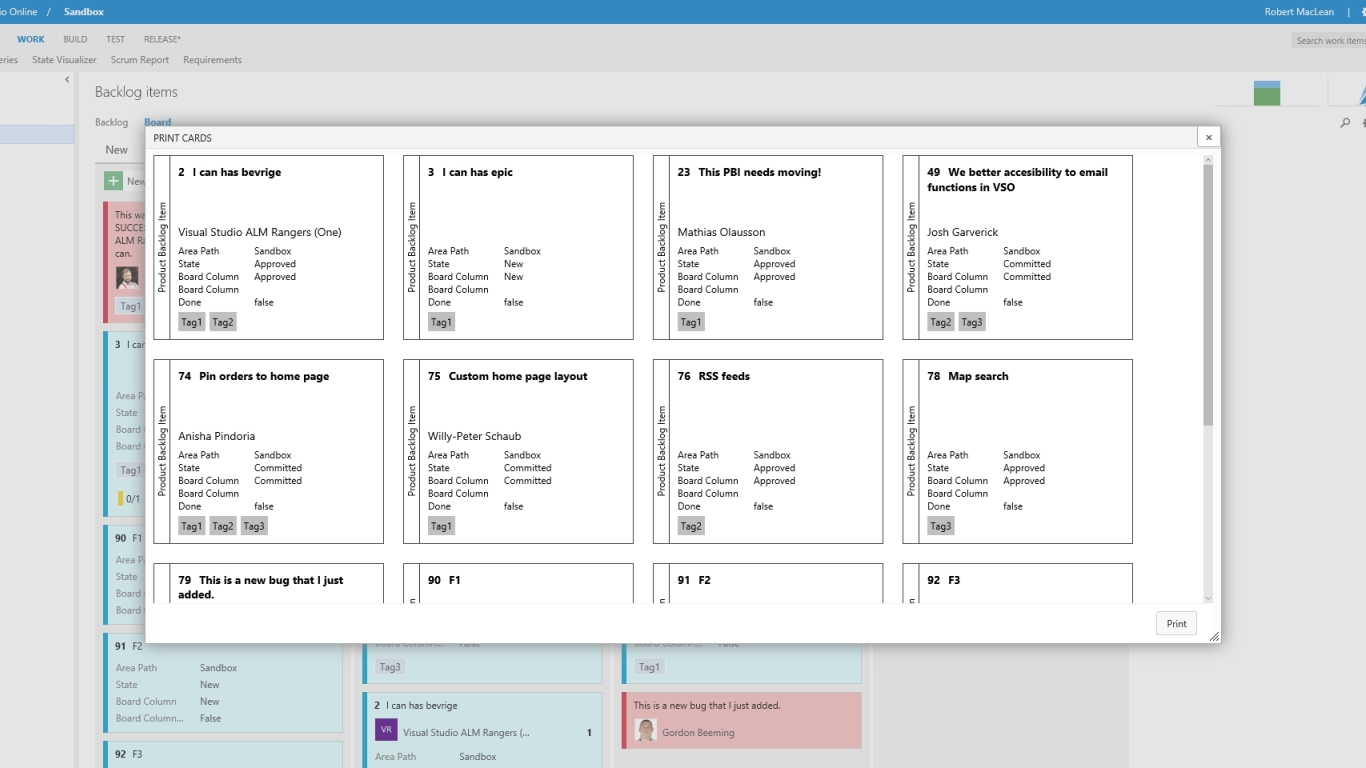
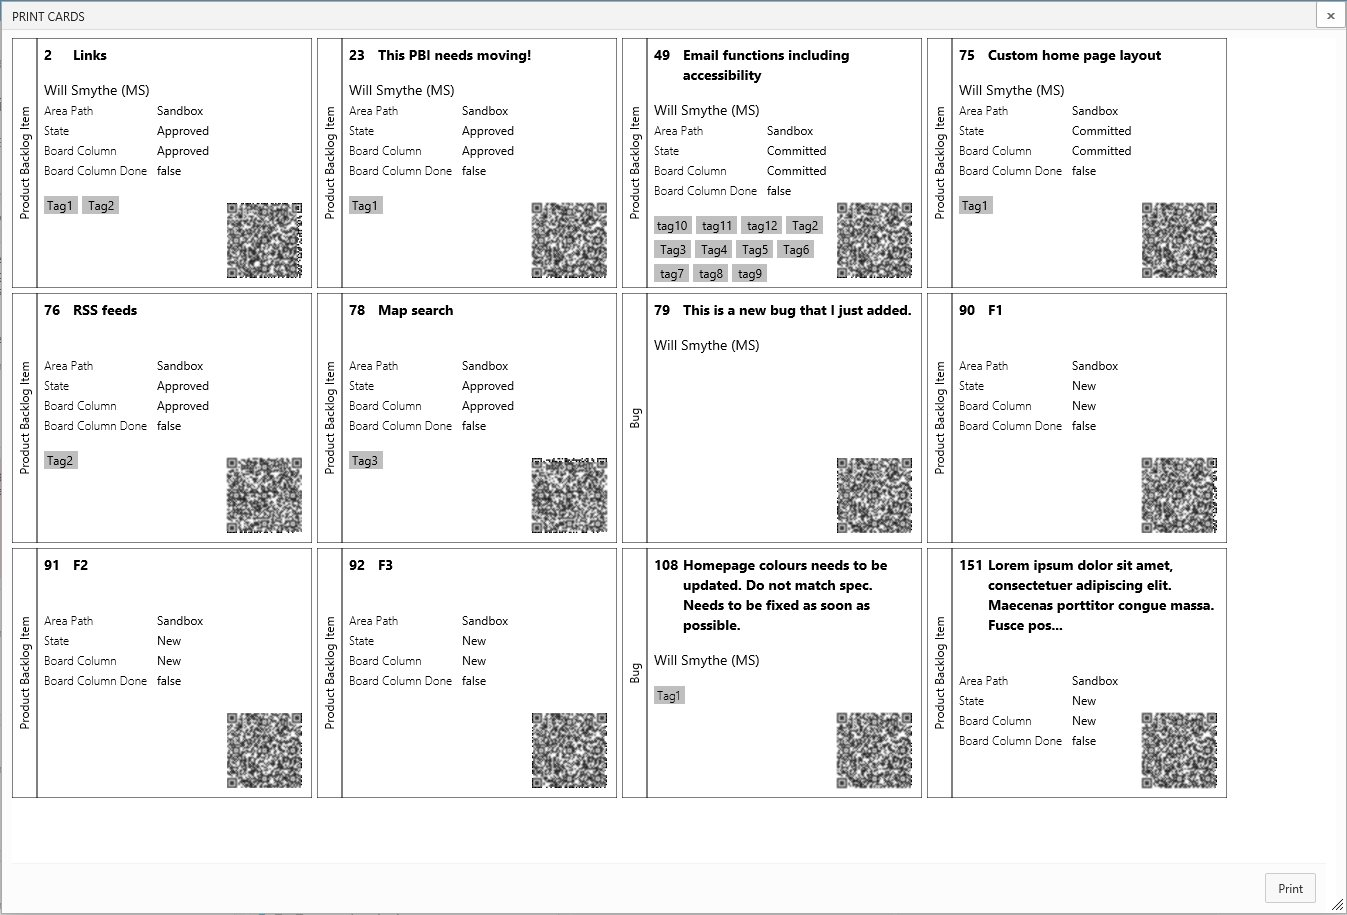
Updated images and readme

diff --git a/src/VSO.PrintCards/README.md b/src/VSO.PrintCards/README.md
@@ -10,20 +10,26 @@ This extension adds a `print` action to your backlog.
 
 Clicking `print` opens a preview. From there you can print to a printer or save. 
 
-![Use your browser](images/image2.png)
+![Physically printed](images/image2.png)
 
 ## Supported browsers ##
 
+Our supported browsers are 
+- Edge 
+- Internet Explorer
+- Firefox 
+- Chrome
 
+Other browsers may work, provided they support HTML 5 canvas &amp; CSS 3 correctly.
 
-- Supported browsers include Edge (see notice below), Internet Explorer (IE), Firefox and Chrome.
-
-> NOTICE: We are investigating a display issue with the Edge browser. You must be on version 10568 of Windows and Edge 25.10586 for this extension to display and print correctly.
+### Known Issues
+When using Edge on a version of Windows 10 before the November 2015 update of Windows 10 (version 10568), for this extension will NOT print correctly.
 
 ## Quick steps to get started ##
 
 1. Navigate to your backlog board.
-1. Click on the `Print Cards` icon above the board on the right hand side (next to "Enter full screen mode").
-1. Click 'print' to print cards. 
+2. Click on the `Print Cards` icon (![print cards icon](images/print-cards-icon-small.png)) above the board on the right hand side (next to "Enter full screen mode").
+3. Click the `Print` button to print the cards. 
+4. You can scan the QR Code on each card to be taken directly to card in your browser.
 
 > Microsoft DevLabs is an outlet for experiments from Microsoft, experiments that represent some of the latest ideas around developer tools. Solutions in this category are designed for broad usage, and you are encouraged to use and provide feedback on them; however, these extensions are not supported nor are any commitments made as to their longevity.
